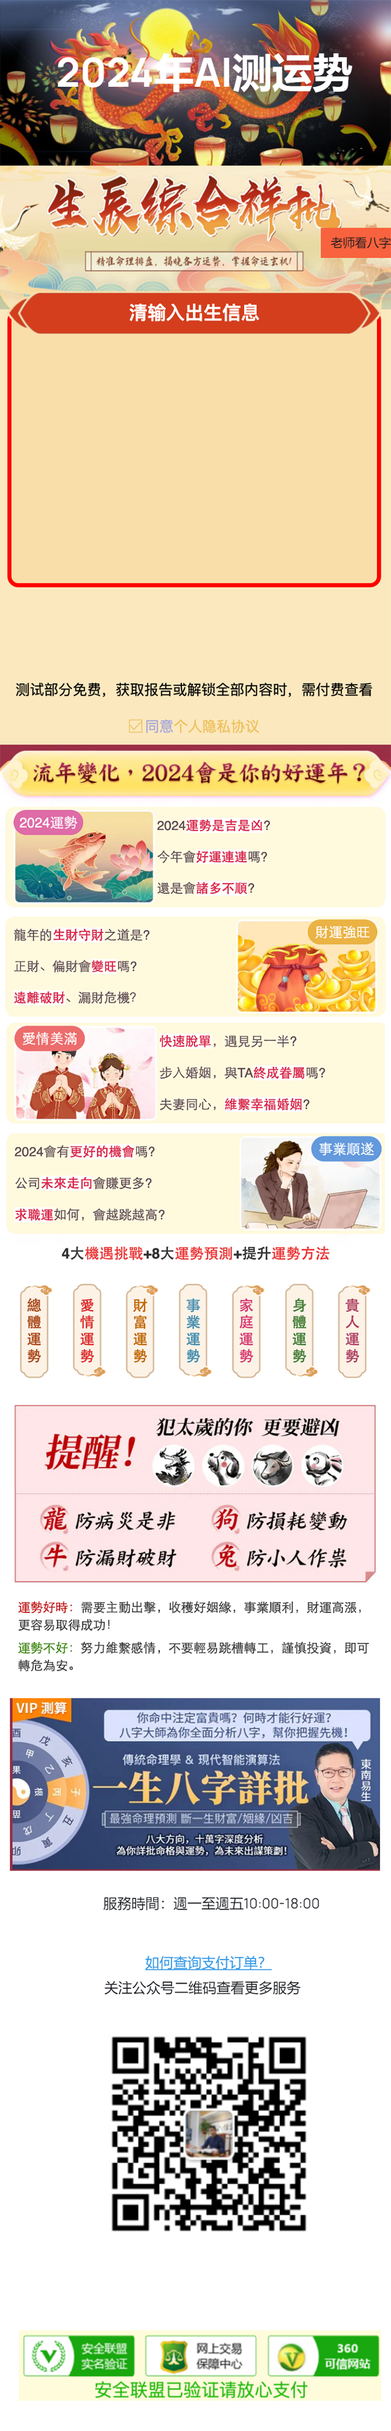
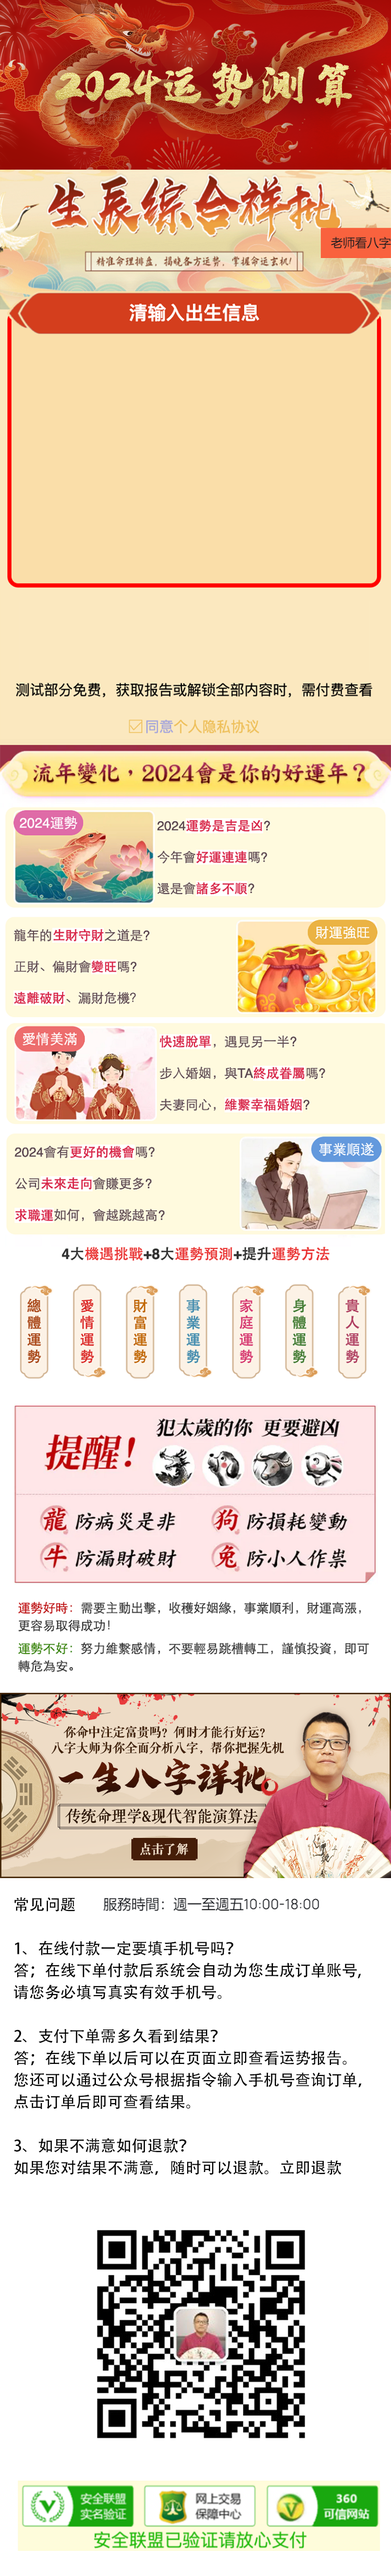
Fix homepage and close popup when close

diff --git a/pages/fortune/fortune.vue b/pages/fortune/fortune.vue
@@ -6,7 +6,6 @@
 			<FtHomepageLabel type="birthdate" v-model="birthdate" />
 		</view>
 		<view class="ft-start-button" @click="handleSubmit" />
-		<view class="ft-homepage-master-qr" />
 	</view>
 </template>
 
@@ -28,7 +27,7 @@ const handleSubmit = () => {
 <style scoped>
 .ft-homepage {
 	width: 750rpx;
-	height: 4659rpx;
+	height: 4935rpx;
 	background-image: url('../../static/ft-homepage.png');
 	background-repeat: no-repeat;
 	background-size: contain;
@@ -62,16 +61,5 @@ const handleSubmit = () => {
 	to {
 		transform: translateX(-50%) scale(0.95);
 	}
-}
-
-.ft-homepage-master-qr {
-	position: absolute;
-	top: 3790rpx;
-	left: 140rpx;
-	width: 500rpx;
-	height: 500rpx;
-	background-image: url('../../static/wechat-public-qrcode.jpg');
-	background-repeat: no-repeat;
-	background-size: contain;
 }
 </style>

diff --git a/components/ft/FtPaymentConfirmPopup.vue b/components/ft/FtPaymentConfirmPopup.vue
@@ -28,6 +28,10 @@ const open = () => {
 	dialog.value.open();
 };
 
+const close = () => {
+	dialog.value.close();
+};
+
 const handleClose = () => {
 	dialog.value.close();
 };
@@ -43,7 +47,8 @@ const handleComplete = () => {
 const emit = defineEmits(['continue', 'complete']);
 
 defineExpose({
-	open
+	open,
+	close
 });
 </script>
 

diff --git a/pages/fortune/fortune-payment.vue b/pages/fortune/fortune-payment.vue
@@ -58,6 +58,7 @@ const handleContinue = () => {
 };
 
 const handleComplete = () => {
+	confirmPopup.value.close();
 	uni.navigateTo({
 		url: `/pages/fortune/fortune-result`
 	});
